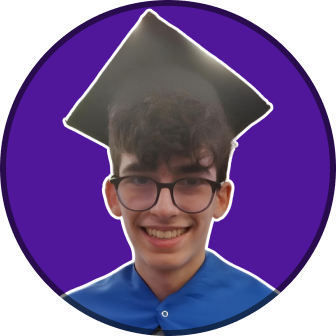
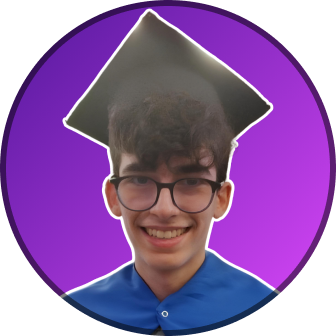
changed pfp, added link

diff --git a/index.html b/index.html
@@ -27,13 +27,13 @@
         </div>
         <ul>
             <li>
-                <a id="link1" class="link" href="#" target="_blank">Aulas Particulares de Inglês</a>
+                <a id="link1" class="link" href="https://slraphadev.github.io/elt-links" target="_blank">Aulas Particulares de Inglês</a>
             </li>
             <li>
                 <a id="link2" class="link" href="#" target="_blank">Meu Portifólio Dev</a>
             </li>
             <li>
-                <a id="link4" class="link" href="https://wa.me/5538992718351?text=Hello!%20Me%20chamo%20(seu%20nome)%20e%20(...)" target="_blank">Contato (WhatsApp)</a>
+                <a id="link3" class="link" href="https://wa.me/5538992718351?text=Hello!%20Me%20chamo%20(seu%20nome)%20e%20(...)" target="_blank">Contato (WhatsApp)</a>
             </li>
         </ul>
         <div id="social-links">
